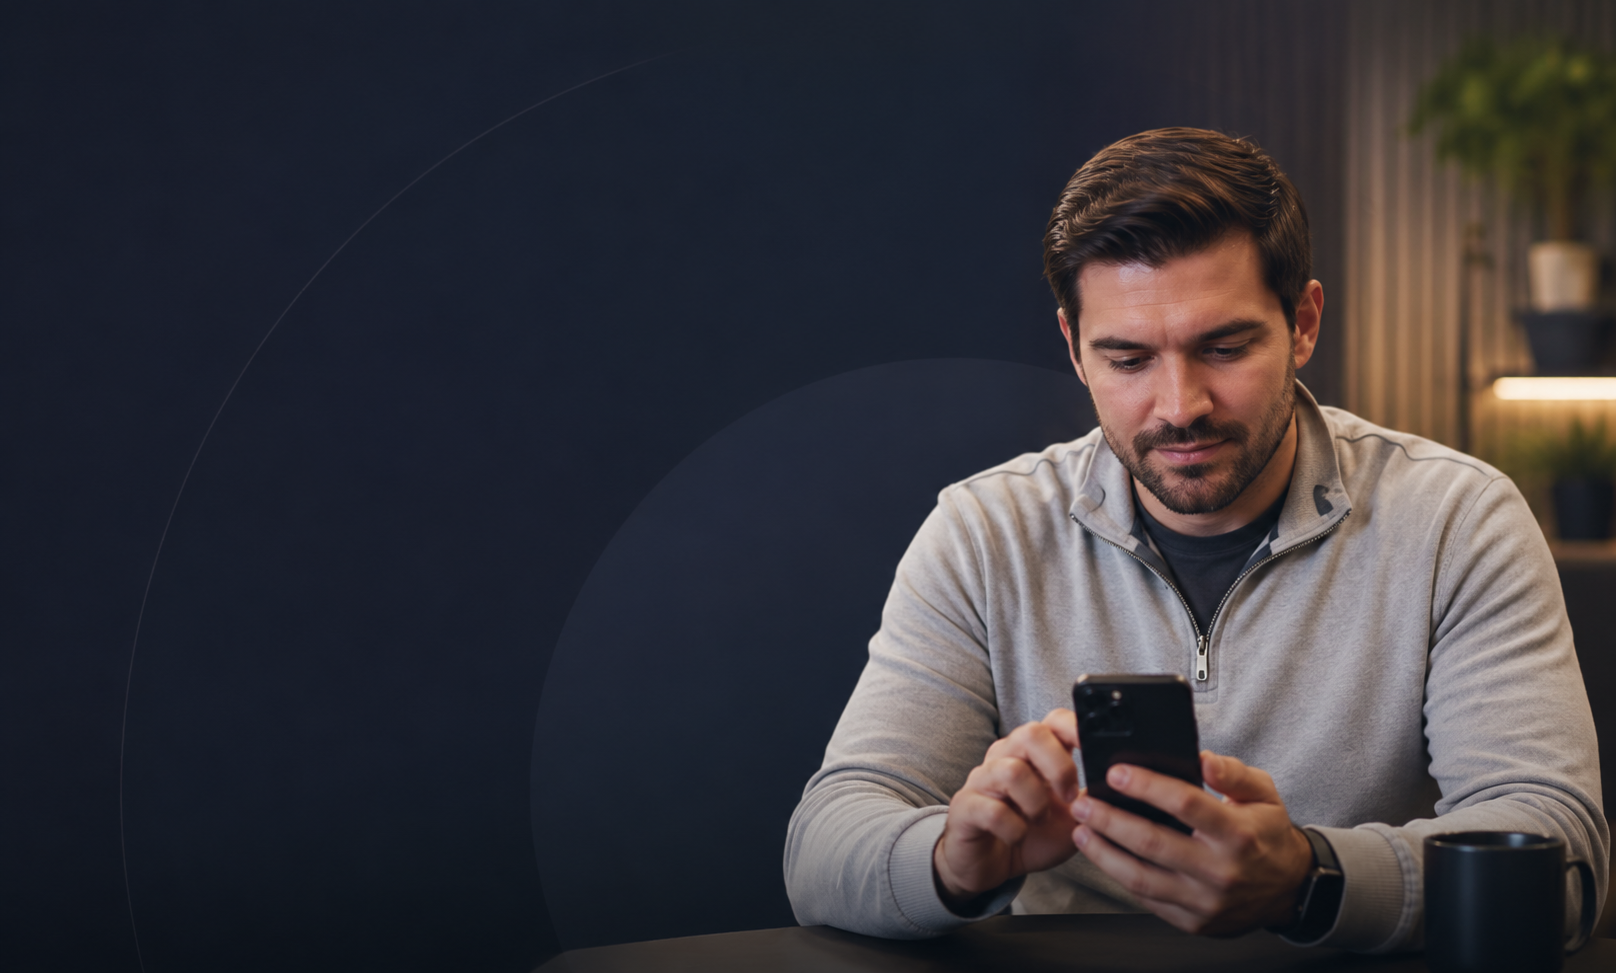
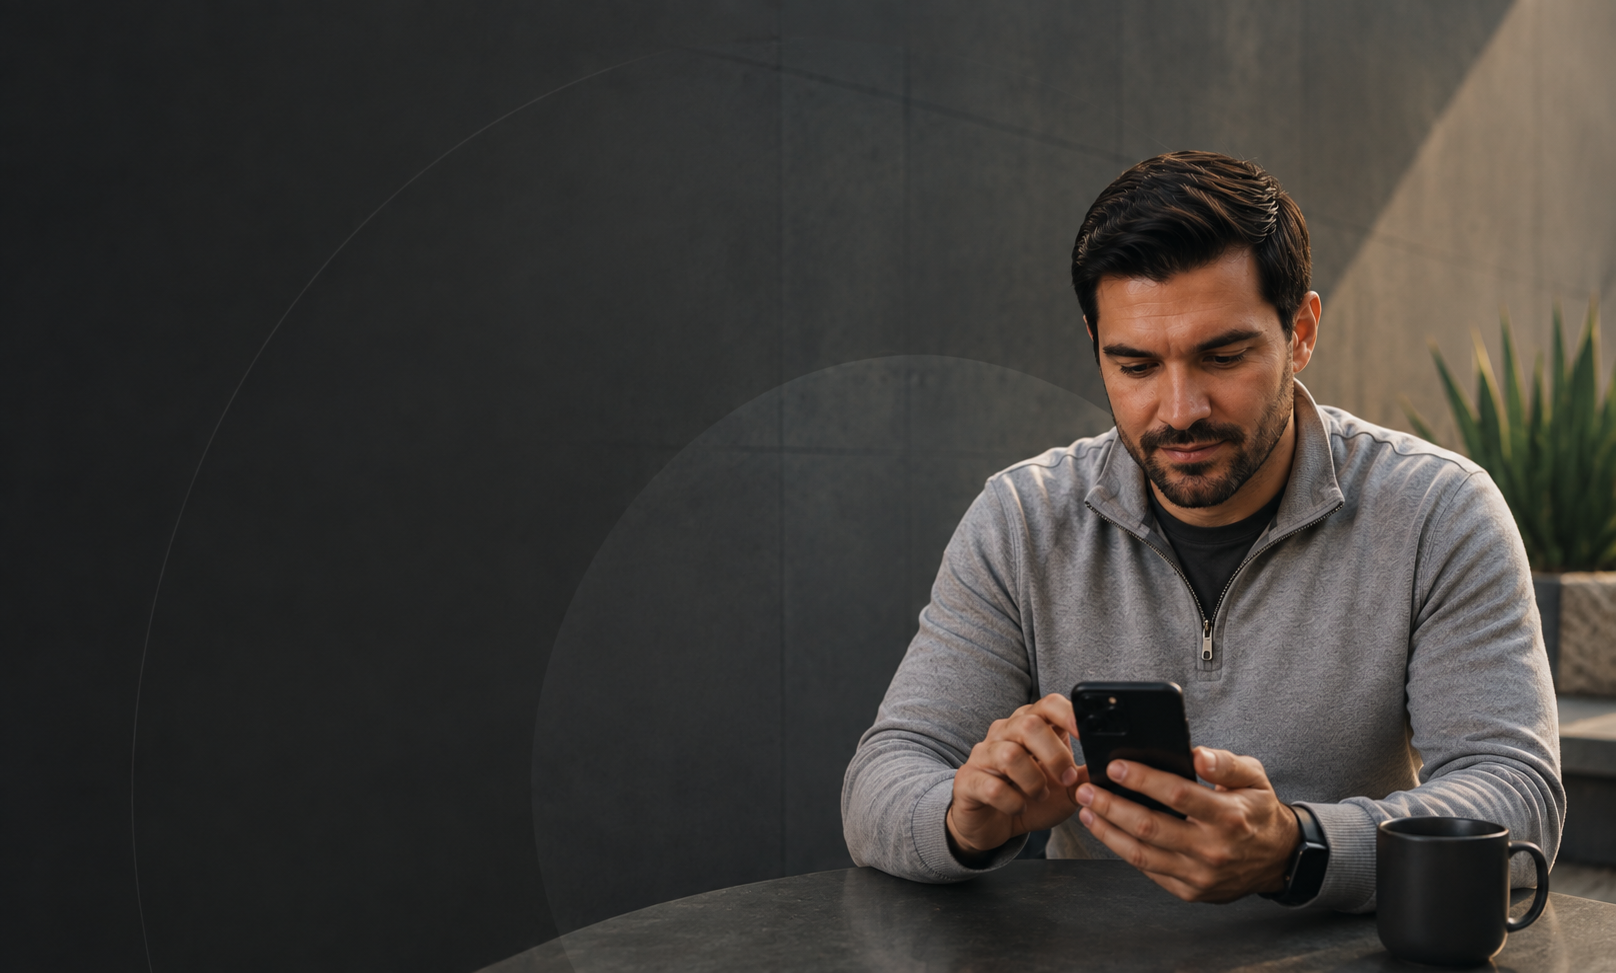
hero B: fondo con toque sutil de azul; caption 'Envia con las mejores paqueterias'; microcopy 'Cotiza con +10 paqueterias en un clic'; fix cursor del monto (placeholder oculto al focus). casos: casa de tono card v5, telcel v5 actualizado + texto a la izquierda

diff --git a/src/components/T1HeroB.tsx b/src/components/T1HeroB.tsx
@@ -132,7 +132,7 @@ const CARRIER_LOGOS = [
 function CarrierLogos() {
   return (
     <div className="mt-6 flex flex-col items-center gap-3">
-      <span className="font-inter text-[12px] font-normal text-white/45">Con las mejores paqueterías</span>
+      <span className="font-inter text-[12px] font-normal text-white/45">Envía con las mejores paqueterías</span>
       <div className="flex items-center justify-center gap-2.5">
         {CARRIER_LOGOS.map((src) => (
           <div key={src} className="flex h-[30px] w-[30px] shrink-0 items-center justify-center overflow-hidden rounded-full">
@@ -322,7 +322,7 @@ export default function T1HeroB() {
     <div className="relative z-0">
       <section className="relative flex flex-col items-center overflow-hidden px-5 pb-0 pt-24 tablet:px-6 tablet:pt-28 tablet:pb-0">
         {/* Fondo (versión B, v4) — cálido y rico como la v1 (tipo stack cards),
-            un pelín menos intenso y SIN azul: glow rojo/coral sobre base cálida. */}
+            un pelín menos intenso, con un TOQUE muy sutil de azul abajo-izq. */}
         <div
           aria-hidden
           className="absolute inset-0 z-0"
@@ -331,6 +331,7 @@ export default function T1HeroB() {
               "radial-gradient(ellipse 86% 70% at 67% 32%, rgba(226,64,47,0.40) 0%, transparent 60%)," +
               "radial-gradient(ellipse 60% 58% at 14% 22%, rgba(150,34,34,0.26) 0%, transparent 58%)," +
               "radial-gradient(ellipse 50% 46% at 82% 84%, rgba(244,114,150,0.12) 0%, transparent 62%)," +
+              "radial-gradient(ellipse 52% 48% at 6% 94%, rgba(58,72,150,0.13) 0%, transparent 56%)," +
               "linear-gradient(160deg, #22101a 0%, #1c0d15 48%, #160a11 100%)",
           }}
         />
@@ -524,7 +525,7 @@ export default function T1HeroB() {
                         onChange={(e) => setMonto(e.target.value.replace(/\D/g, "").slice(0, 9))}
                         placeholder="0.00"
                         aria-label="Monto a cobrar"
-                        className="w-[200px] bg-transparent text-center font-sora text-[44px] font-light leading-none text-white outline-none placeholder:text-white/25"
+                        className="w-[200px] bg-transparent text-center font-sora text-[44px] font-light leading-none text-white outline-none placeholder:text-white/25 focus:placeholder:text-transparent"
                       />
                     </div>
                     {/* Concepto — pregunta arriba + hint abajo */}
@@ -564,7 +565,7 @@ export default function T1HeroB() {
               {tab.id === "envio" && (
                 <>
                   <p className="flex min-h-[52px] max-w-[360px] items-center justify-center text-center font-inter text-[16px] font-light leading-[1.6] text-white tablet:min-h-0 tablet:max-w-none tablet:whitespace-nowrap">
-                    Cotiza a todo México en segundos.
+                    Cotiza con +10 paqueterías en un clic.
                   </p>
                   <div className="flex w-full flex-1 flex-col gap-4 tablet:flex-none">
                     {/* CP — misma altura mín. que los campos de link para alinear los logos entre pestañas */}

diff --git a/src/components/T1EnterpriseCarousel.tsx b/src/components/T1EnterpriseCarousel.tsx
@@ -29,13 +29,13 @@ const CASES: CaseStudy[] = [
     person: "Juan Manuel Ruiz", role: "DIRECTOR GENERAL | CÍRCULO DE CRÉDITO", hasVideo: true, videoId: "MPXrBe7iNgE",
   },
   {
-    id: "casadetono", name: "Casa de Toño", image: "/img/logos/casadetono-v3.png", whiteLogo: "/img/logo-casadetono-white.png", coverImage: "/img/caso-casadetono-art.png", treated: true, logoH: 60, logoHm: 45, bgColor: "#241014",
+    id: "casadetono", name: "Casa de Toño", image: "/img/logos/casadetono-v3.png", whiteLogo: "/img/logo-casadetono-white.png", coverImage: "/img/casa-card-v5.png", treated: true, logoH: 60, logoHm: 45, bgColor: "#241014",
     metric: "+92%", metricLabel: "de aprobación y fraude casi cero",
     quote: "T1 Pagos permitió a Casa de Toño mantener altos niveles de aprobación, con fraude prácticamente nulo en sus operaciones digitales a través de su canal de WhatsApp.",
     person: "", role: "", hasVideo: false,
   },
   {
-    id: "telcel", name: "Telcel", image: "/img/logos/telcel-v2.png", whiteLogo: "/img/logo-telcel-white.png", coverImage: "/img/telcel-card-v5.png", treated: true, textSide: "right", bgColor: "#241014",
+    id: "telcel", name: "Telcel", image: "/img/logos/telcel-v2.png", whiteLogo: "/img/logo-telcel-white.png", coverImage: "/img/telcel-card-v5.png", treated: true, bgColor: "#241014",
     metric: "+2 M", metricLabel: "de recargas procesadas",
     quote: "T1 Pagos ha procesado más de 2 millones de paquetes y recargas Telcel, consolidando una operación digital de alto volumen dentro del ecosistema.",
     person: "", role: "", hasVideo: false,
